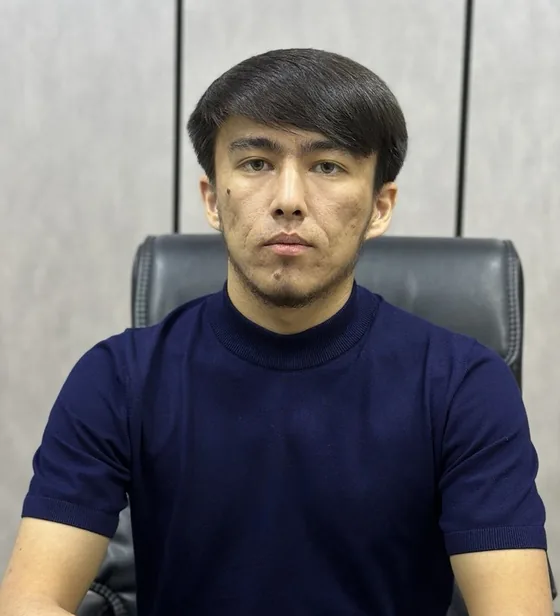
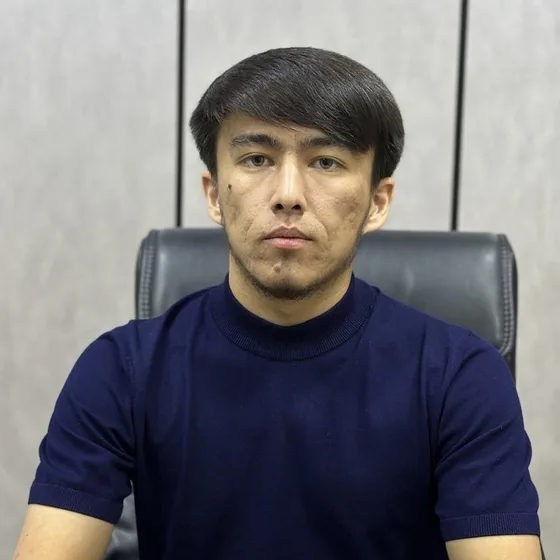
Teachers: more compact cards
Square photos (560x560), narrower cards (250 px min, 360 px max,
72% width on phones), tighter paddings and smaller tags/badge, bio
clamped to four lines. Mobile section height 988 -> 826 px.

Claude-Session: https://claude.ai/code/session_01QCfxuh9TFDZb6UmoMMBJW9

Changed region(s): [[0.0, 0.0, 1.0, 1.0], [0.5161, 0.6982, 0.5464, 0.7589], [0.8804, 0.8196, 0.9107, 0.85]]

diff --git a/index.html b/index.html
@@ -183,24 +183,25 @@ body.menu-open{overflow:hidden}
 @media (max-width:860px){.about-grid{grid-template-columns:1fr;gap:16px}.about-text{padding:28px 22px}}
 
 /* director */
-.team{display:grid;grid-template-columns:repeat(auto-fill,minmax(280px,1fr));gap:18px;margin-top:32px}
-.tcard{background:var(--bg-alt);border:1px solid var(--line);border-radius:24px;padding:14px 14px 20px;max-width:420px;transition:transform .25s ease,box-shadow .25s ease}
+.team{display:grid;grid-template-columns:repeat(auto-fill,minmax(250px,1fr));gap:16px;margin-top:32px}
+.tcard{background:var(--bg-alt);border:1px solid var(--line);border-radius:22px;padding:12px 12px 18px;max-width:360px;transition:transform .25s ease,box-shadow .25s ease}
 @media (hover:hover){.tcard:hover{transform:translateY(-4px);box-shadow:0 22px 48px -22px rgba(8,38,61,.28)}}
-.tcard .ph{border-radius:18px;overflow:hidden;aspect-ratio:4/4.4;background:var(--soft);box-shadow:0 24px 50px -24px rgba(8,38,61,.45)}
+.tcard .ph{border-radius:16px;overflow:hidden;aspect-ratio:1/1;background:var(--soft);box-shadow:0 24px 50px -24px rgba(8,38,61,.45)}
 .tcard .ph img{width:100%;height:100%;object-fit:cover;object-position:50% 20%;display:block}
-.tcard .tb{padding:16px 6px 0}
+.tcard .tb{padding:14px 4px 0}
 .tcard .role{display:inline-flex;align-items:center;gap:6px;font-size:12.5px;font-weight:800;letter-spacing:.06em;text-transform:uppercase;color:var(--brand-ink);background:var(--card);border:1px solid var(--line);border-radius:999px;padding:5px 10px}
 .tcard .role.lead{background:var(--accent-soft);color:var(--accent-ink);border-color:transparent}
-.tcard h3{font-size:20px;line-height:1.25;margin:10px 0 4px;letter-spacing:-.01em}
-.tcard .teach{color:var(--muted);font-size:14.5px;font-weight:600;margin:0}
-.tcard .tags{list-style:none;padding:0;margin:14px 0 0;display:flex;flex-wrap:wrap;gap:8px}
-.tcard .tags li{background:var(--card);border:1px solid var(--line);border-radius:10px;padding:7px 11px;font-size:13.5px;font-weight:600;display:flex;align-items:center;gap:7px}
+.tcard h3{font-size:18px;line-height:1.25;margin:9px 0 3px;letter-spacing:-.01em}
+.tcard .teach{color:var(--muted);font-size:14px;font-weight:600;margin:0}
+.tcard .tags{list-style:none;padding:0;margin:12px 0 0;display:flex;flex-wrap:wrap;gap:6px}
+.tcard .tags li{background:var(--card);border:1px solid var(--line);border-radius:9px;padding:5px 9px;font-size:12.5px;font-weight:600;display:flex;align-items:center;gap:7px}
 .tcard .tags svg{width:15px;height:15px;color:var(--brand-ink);flex:none}
-.tcard .bio{color:var(--muted);font-size:14.5px;line-height:1.55;margin:12px 0 0}
+.tcard .bio{color:var(--muted);font-size:13.5px;line-height:1.5;margin:10px 0 0;display:-webkit-box;-webkit-line-clamp:4;-webkit-box-orient:vertical;overflow:hidden}
 .team .tcard.more{display:none}.team.all .tcard.more{display:block}
 .team-more{display:none;margin:18px auto 0}.team-more.show{display:inline-flex}
-@media (max-width:700px){.team{display:flex;overflow-x:auto;scroll-snap-type:x mandatory;gap:12px;margin:26px -20px 0;padding:0 20px 8px;scrollbar-width:none}.team::-webkit-scrollbar{display:none}.tcard{flex:0 0 82%;max-width:none;scroll-snap-align:start}.team .tcard.more{display:block}.team-more{display:none!important}}
-@media (max-width:360px){.tcard{flex-basis:88%}}
+@media (max-width:700px){.team{display:flex;overflow-x:auto;scroll-snap-type:x mandatory;gap:12px;margin:26px -20px 0;padding:0 20px 8px;scrollbar-width:none}.team::-webkit-scrollbar{display:none}.tcard{flex:0 0 72%;max-width:none;scroll-snap-align:start}.team .tcard.more{display:block}.team-more{display:none!important}}
+@media (max-width:700px){.tcard .role{font-size:11px;letter-spacing:.04em;padding:4px 9px}.tcard .tags li{font-size:12px;padding:4px 8px}}
+@media (max-width:360px){.tcard{flex-basis:80%}}
 
 /* why us */
 .advs{display:grid;grid-template-columns:repeat(3,1fr);gap:20px;margin-top:40px}
@@ -1020,10 +1021,10 @@ const TEAM=[
   role:{uz:"Arab tili ustozi",ru:"Преподаватель арабского",en:"Arabic teacher"},
   teaches:{uz:"Grammatika",ru:"Грамматика",en:"Grammar"},
   tags:{uz:["Arab tilidan CEFR B2 (davlat sertifikati)","Yangi Asr universiteti, filologiya","1,5 yillik tajriba"],ru:["CEFR B2 по арабскому (гос. сертификат)","Университет Yangi Asr, филология","1,5 года опыта"],en:["CEFR B2 in Arabic (state certificate)","Yangi Asr University, philology","1.5 years of experience"]},
-  bio:{uz:"SAID academy’da grammatika o‘qitadi. 100 dan ortiq o‘quvchi; ulardan 5 nafari B2, 3 nafari B1 darajasiga erishdi, 3 nafari oliy o‘quv yurtiga kirdi.",ru:"Преподаёт грамматику в SAID academy. Более 100 учеников: 5 достигли уровня B2, 3 — B1, 3 поступили в вузы.",en:"Teaches grammar at SAID academy. Over 100 students: 5 reached B2, 3 reached B1, and 3 entered university."}}
+  bio:{uz:"100 dan ortiq o‘quvchi: 5 nafari B2, 3 nafari B1 darajasiga erishdi, 3 nafari oliy o‘quv yurtiga kirdi.",ru:"Более 100 учеников: 5 достигли уровня B2, 3 — B1, 3 поступили в вузы.",en:"Over 100 students: 5 reached B2, 3 reached B1, and 3 entered university."}}
 ];
 function renderTeam(){const g=document.getElementById("teamGrid");if(!g)return;const d=T[lang];const CHK='<svg viewBox="0 0 24 24" fill="none" stroke="currentColor" stroke-width="2.6" stroke-linecap="round" stroke-linejoin="round"><path d="M5 12.5l4.5 4.5L19 7.5"/></svg>';
-  const LIM=6;g.innerHTML=TEAM.map((t,i)=>'<article class="tcard'+(i>=LIM?' more':'')+'"><div class="ph"><img src="'+t.photo+'" alt="'+esc(t.name)+'" loading="lazy" width="560" height="616"></div><div class="tb"><span class="role'+(t.lead?' lead':'')+'">'+esc(t.role[lang]||t.role.uz)+'</span><h3>'+esc(t.name)+'</h3><p class="teach">'+esc(d.team_teaches)+': '+esc(t.teaches[lang]||t.teaches.uz)+'</p><ul class="tags">'+(t.tags[lang]||t.tags.uz).map(x=>'<li>'+CHK+esc(x)+'</li>').join('')+'</ul>'+(t.bio?'<p class="bio">'+esc(t.bio[lang]||t.bio.uz)+'</p>':'')+'</div></article>').join("");
+  const LIM=6;g.innerHTML=TEAM.map((t,i)=>'<article class="tcard'+(i>=LIM?' more':'')+'"><div class="ph"><img src="'+t.photo+'" alt="'+esc(t.name)+'" loading="lazy" width="560" height="560"></div><div class="tb"><span class="role'+(t.lead?' lead':'')+'">'+esc(t.role[lang]||t.role.uz)+'</span><h3>'+esc(t.name)+'</h3><p class="teach">'+esc(d.team_teaches)+': '+esc(t.teaches[lang]||t.teaches.uz)+'</p><ul class="tags">'+(t.tags[lang]||t.tags.uz).map(x=>'<li>'+CHK+esc(x)+'</li>').join('')+'</ul>'+(t.bio?'<p class="bio">'+esc(t.bio[lang]||t.bio.uz)+'</p>':'')+'</div></article>').join("");
   const mb=document.getElementById("teamMore");if(mb){mb.classList.toggle("show",TEAM.length>LIM&&!g.classList.contains("all"))}}
 document.getElementById("teamMore").addEventListener("click",()=>{document.getElementById("teamGrid").classList.add("all");document.getElementById("teamMore").classList.remove("show")});
 const RM=matchMedia("(prefers-reduced-motion:reduce)").matches;
